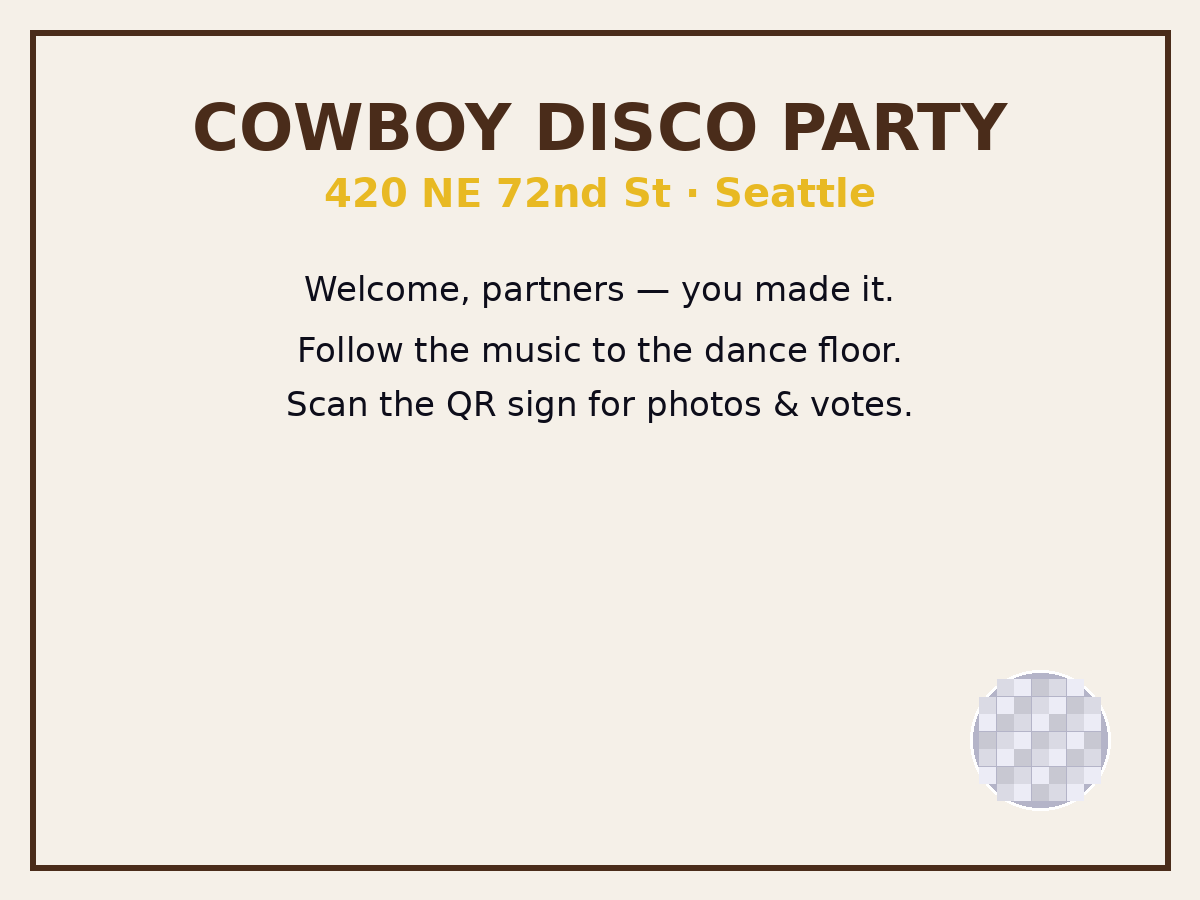
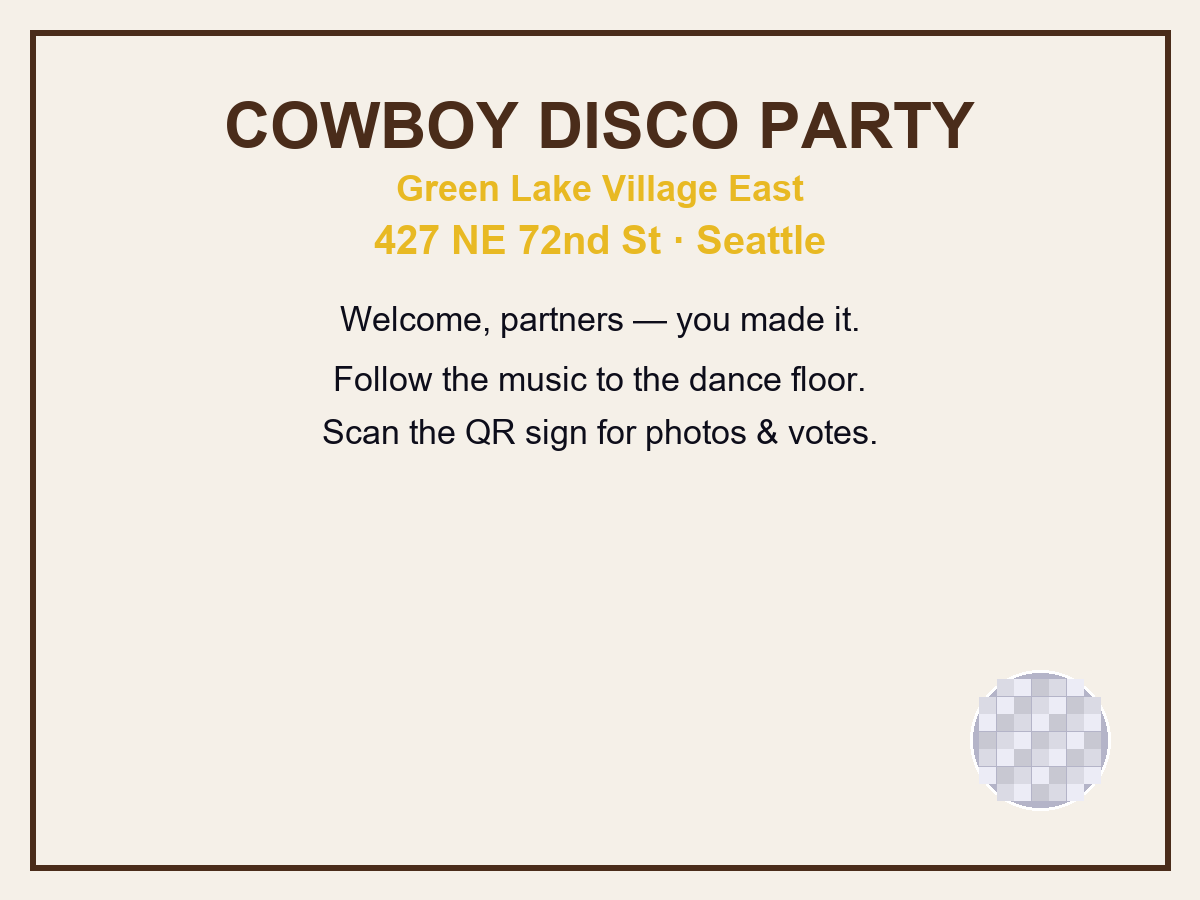
Move the party to Green Lake Village East and drop the hat brand mark.

Changed region(s): [[0.1542, 0.0933, 0.8325, 0.28], [0.2467, 0.3111, 0.7708, 0.4978]]

diff --git a/index.html b/index.html
@@ -38,10 +38,10 @@
     "image": ["https://cowboy-disco-party.vercel.app/assets/og-card.jpg"],
     "location": {
       "@type": "Place",
-      "name": "Cowboy Disco Saloon",
+      "name": "Cowboy Disco Saloon — Green Lake Village East",
       "address": {
         "@type": "PostalAddress",
-        "streetAddress": "420 NE 72nd St",
+        "streetAddress": "427 NE 72nd St",
         "addressLocality": "Seattle",
         "addressRegion": "WA",
         "postalCode": "98115",
@@ -76,7 +76,6 @@
     <div class="brand-stripe" aria-hidden="true"></div>
     <nav class="nav" aria-label="Main">
       <a class="nav__brand brand-lockup" href="#top">
-        <img class="brand-lockup__mark" src="/assets/brand-mark.svg" width="40" height="40" alt="">
         <span class="brand-lockup__text">
           <span class="brand-lockup__name">Cowboy Disco Party</span>
           <span class="brand-lockup__sub">Sep 19, 2026</span>
@@ -171,7 +170,7 @@
             <a class="btn btn--ghost" href="/assets/cowboy-disco-party.ics" download="cowboy-disco-party.ics">Add to Calendar</a>
             <a
               class="btn btn--ghost"
-              href="https://www.google.com/maps/dir/?api=1&destination=420+NE+72nd+St,+Seattle,+WA+98115"
+              href="https://www.google.com/maps/dir/?api=1&destination=427+NE+72nd+St,+Seattle,+WA+98115"
               target="_blank"
               rel="noopener noreferrer"
             >Get Directions</a>
@@ -199,11 +198,12 @@
             <p class="detail-card__num" aria-hidden="true">02</p>
             <h3>Where</h3>
             <p><strong>Cowboy Disco Saloon</strong></p>
-            <p>420 NE 72nd St, Seattle, WA 98115</p>
+            <p>Green Lake Village East</p>
+            <p>427 NE 72nd St, Seattle, WA 98115</p>
             <p>
               <a
                 class="btn btn--ghost btn--compact"
-                href="https://www.google.com/maps/dir/?api=1&destination=420+NE+72nd+St,+Seattle,+WA+98115"
+                href="https://www.google.com/maps/dir/?api=1&destination=427+NE+72nd+St,+Seattle,+WA+98115"
                 target="_blank"
                 rel="noopener noreferrer"
               >Get Directions</a>
@@ -758,13 +758,14 @@
       <div class="container">
         <header class="section__header">
           <h2>Location</h2>
-          <p>Cowboy Disco Saloon · 420 NE 72nd St, Seattle</p>
+          <p>Cowboy Disco Saloon · Green Lake Village East</p>
         </header>
         <div class="location-grid">
           <div class="location-info">
             <h3>Getting There</h3>
             <p>
-              <strong>420 NE 72nd St</strong><br>
+              <strong>Green Lake Village East</strong><br>
+              427 NE 72nd St<br>
               Seattle, WA 98115
             </p>
             <p>
@@ -773,15 +774,15 @@
             <a class="btn btn--primary location-directions is-hidden" data-partiful href="#" target="_blank" rel="noopener noreferrer">RSVP on Partiful</a>
             <a
               class="btn btn--secondary location-directions"
-              href="https://www.google.com/maps/dir/?api=1&destination=420+NE+72nd+St,+Seattle,+WA+98115"
+              href="https://www.google.com/maps/dir/?api=1&destination=427+NE+72nd+St,+Seattle,+WA+98115"
               target="_blank"
               rel="noopener noreferrer"
             >Open in Google Maps</a>
           </div>
           <div class="location-map">
             <iframe
-              title="Map to 420 NE 72nd St, Seattle"
-              src="https://maps.google.com/maps?q=420+NE+72nd+St,+Seattle,+WA+98115&output=embed"
+              title="Map to 427 NE 72nd St, Seattle"
+              src="https://maps.google.com/maps?q=427+NE+72nd+St,+Seattle,+WA+98115&output=embed"
               loading="lazy"
               referrerpolicy="no-referrer-when-downgrade"
               allowfullscreen
@@ -841,7 +842,7 @@
             <summary class="faq-item__question">Where do I go?</summary>
             <div class="faq-item__answer">
               <p>
-                Head to <strong>420 NE 72nd St, Seattle</strong> — look for the <strong>Cowboy Disco</strong> signs
+                Head to <strong>Green Lake Village East, 427 NE 72nd St, Seattle</strong> — look for the <strong>Cowboy Disco</strong> signs
                 and follow the music to the dance floor.
                 <a href="#location">Map and directions</a> are on this page.
               </p>
@@ -928,7 +929,6 @@
     <div class="container site-footer__inner">
       <div class="footer-premium__brand">
         <p class="footer-premium__presents">Hondo Entertainment presents</p>
-        <img class="footer-premium__mark" src="/assets/brand-mark.svg" width="56" height="56" alt="">
         <span class="footer-premium__name">Cowboy Disco</span>
         <p class="footer-premium__tagline">Where Studio 54 meets the Wild West.</p>
       </div>

diff --git a/gallery.html b/gallery.html
@@ -32,7 +32,6 @@
     <div class="brand-stripe" aria-hidden="true"></div>
     <nav class="nav" aria-label="Main">
       <a class="nav__brand brand-lockup" href="index.html">
-        <img class="brand-lockup__mark" src="/assets/brand-mark.svg" width="40" height="40" alt="">
         <span class="brand-lockup__text">
           <span class="brand-lockup__name">Cowboy Disco Party</span>
           <span class="brand-lockup__sub">Sep 19, 2026</span>
@@ -57,14 +56,6 @@
   <main id="main">
     <section class="section section--poll-hero reveal">
       <div class="container">
-        <div class="brand-banner brand-lockup brand-lockup--card is-hidden" hidden>
-          <img class="brand-lockup__mark" src="/assets/brand-mark.svg" width="44" height="44" alt="">
-          <span class="brand-lockup__text">
-            <span class="brand-lockup__name">Cowboy Disco Party</span>
-            <span class="brand-lockup__sub">Cowboy Disco Saloon</span>
-          </span>
-        </div>
-
         <header class="section__header">
           <p class="poll-hero__eyebrow">
             <span class="star" aria-hidden="true">★</span>
@@ -151,7 +142,6 @@
   <footer class="site-footer site-footer--premium">
     <div class="container site-footer__inner">
       <div class="footer-premium__brand">
-        <img class="footer-premium__mark" src="/assets/brand-mark.svg" width="56" height="56" alt="">
         <span class="footer-premium__name">Cowboy Disco</span>
         <p class="footer-premium__tagline">Where Studio 54 meets the Wild West.</p>
       </div>

diff --git a/vote.html b/vote.html
@@ -29,7 +29,6 @@
     <div class="brand-stripe" aria-hidden="true"></div>
     <nav class="nav" aria-label="Main">
       <a class="nav__brand brand-lockup" href="index.html">
-        <img class="brand-lockup__mark" src="/assets/brand-mark.svg" width="40" height="40" alt="">
         <span class="brand-lockup__text">
           <span class="brand-lockup__name">Cowboy Disco Party</span>
           <span class="brand-lockup__sub">Sep 19, 2026</span>
@@ -54,14 +53,6 @@
   <main id="main">
     <section class="section section--poll-hero">
       <div class="container">
-        <div class="brand-banner brand-lockup brand-lockup--card is-hidden" hidden>
-          <img class="brand-lockup__mark" src="/assets/brand-mark.svg" width="44" height="44" alt="">
-          <span class="brand-lockup__text">
-            <span class="brand-lockup__name">Cowboy Disco Party</span>
-            <span class="brand-lockup__sub">Cowboy Disco Saloon</span>
-          </span>
-        </div>
-
         <header class="section__header">
           <p class="poll-hero__eyebrow">
             <span class="star" aria-hidden="true">★</span>
@@ -123,7 +114,6 @@
   <footer class="site-footer site-footer--premium">
     <div class="container site-footer__inner">
       <div class="footer-premium__brand">
-        <img class="footer-premium__mark" src="/assets/brand-mark.svg" width="56" height="56" alt="">
         <span class="footer-premium__name">Cowboy Disco</span>
         <p class="footer-premium__tagline">Where Studio 54 meets the Wild West.</p>
       </div>

diff --git a/poll.html b/poll.html
@@ -29,7 +29,6 @@
     <div class="brand-stripe" aria-hidden="true"></div>
     <nav class="nav" aria-label="Main">
       <a class="nav__brand brand-lockup" href="index.html">
-        <img class="brand-lockup__mark" src="/assets/brand-mark.svg" width="40" height="40" alt="">
         <span class="brand-lockup__text">
           <span class="brand-lockup__name">Cowboy Disco Party</span>
           <span class="brand-lockup__sub">Sep 19, 2026</span>
@@ -54,13 +53,6 @@
   <main id="main">
     <section class="section section--poll-hero">
       <div class="container">
-        <div class="brand-banner brand-lockup brand-lockup--card is-hidden" hidden>
-          <img class="brand-lockup__mark" src="/assets/brand-mark.svg" width="44" height="44" alt="">
-          <span class="brand-lockup__text">
-            <span class="brand-lockup__name">Cowboy Disco Party</span>
-            <span class="brand-lockup__sub">Cowboy Disco Saloon</span>
-          </span>
-        </div>
 
         <header class="section__header">
           <p class="poll-hero__eyebrow">
@@ -198,7 +190,6 @@
   <footer class="site-footer site-footer--premium">
     <div class="container site-footer__inner">
       <div class="footer-premium__brand">
-        <img class="footer-premium__mark" src="/assets/brand-mark.svg" width="56" height="56" alt="">
         <span class="footer-premium__name">Cowboy Disco</span>
         <p class="footer-premium__tagline">Where Studio 54 meets the Wild West.</p>
       </div>

diff --git a/ice-breaker.html b/ice-breaker.html
@@ -29,7 +29,6 @@
     <div class="brand-stripe" aria-hidden="true"></div>
     <nav class="nav" aria-label="Main">
       <a class="nav__brand brand-lockup" href="index.html">
-        <img class="brand-lockup__mark" src="/assets/brand-mark.svg" width="40" height="40" alt="">
         <span class="brand-lockup__text">
           <span class="brand-lockup__name">Cowboy Disco Party</span>
           <span class="brand-lockup__sub">Sep 19, 2026</span>
@@ -54,13 +53,6 @@
   <main id="main">
     <section class="section section--tab-hero">
       <div class="container">
-        <div class="brand-banner brand-lockup brand-lockup--card is-hidden" hidden>
-          <img class="brand-lockup__mark" src="/assets/brand-mark.svg" width="44" height="44" alt="">
-          <span class="brand-lockup__text">
-            <span class="brand-lockup__name">Cowboy Disco Party</span>
-            <span class="brand-lockup__sub">Cowboy Disco Saloon</span>
-          </span>
-        </div>
 
         <header class="section__header">
           <p class="tab-hero__eyebrow">
@@ -91,7 +83,6 @@
   <footer class="site-footer site-footer--premium">
     <div class="container site-footer__inner">
       <div class="footer-premium__brand">
-        <img class="footer-premium__mark" src="/assets/brand-mark.svg" width="56" height="56" alt="">
         <span class="footer-premium__name">Cowboy Disco</span>
         <p class="footer-premium__tagline">Where Studio 54 meets the Wild West.</p>
       </div>

diff --git a/schedule-card.html b/schedule-card.html
@@ -28,7 +28,6 @@
   <div class="phys-sheet">
     <article class="phys-schedule" aria-label="Party evening schedule">
       <div class="brand-lockup brand-lockup--card phys-brand" style="margin-bottom: 0.15in;">
-        <img class="brand-lockup__mark" src="/assets/brand-mark.svg" width="36" height="36" alt="">
         <span class="brand-lockup__text">
           <span class="brand-lockup__name" style="color: var(--phys-brown); font-size: 1.2rem;">Cowboy Disco Party</span>
           <span class="brand-lockup__sub" style="color: var(--phys-muted);">Cowboy Disco Saloon</span>
@@ -47,7 +46,7 @@
           <tr><td class="phys-schedule__time">10:00 PM</td><td>Party ends</td></tr>
         </tbody>
       </table>
-      <p class="phys-schedule__foot">420 NE 72nd St, Seattle · Cowboy Disco Saloon</p>
+      <p class="phys-schedule__foot">Green Lake Village East, 427 NE 72nd St, Seattle · Cowboy Disco Saloon</p>
     </article>
   </div>
 </body>

diff --git a/qr.html b/qr.html
@@ -16,14 +16,13 @@
   <main id="main" class="qr-print" data-qr-block>
     <div class="qr-print__sheet">
       <div class="brand-lockup brand-lockup--card" style="justify-content: center; margin-bottom: 1rem;">
-        <img class="brand-lockup__mark" src="/assets/brand-mark.svg" width="48" height="48" alt="">
         <span class="brand-lockup__text">
           <span class="brand-lockup__name">Cowboy Disco Party</span>
           <span class="brand-lockup__sub">Cowboy Disco Saloon</span>
         </span>
       </div>
       <h1 class="qr-print__title">Scan to Join the Party</h1>
-      <p class="qr-print__subtitle">Ice Breakers · Photos · FAQ · 420 NE 72nd St, Seattle</p>
+      <p class="qr-print__subtitle">Ice Breakers · Photos · FAQ · Green Lake Village East, 427 NE 72nd St, Seattle</p>
       <div class="qr-print__frame qr-block__frame">
         <img
           class="qr-block__img qr-print__img"

diff --git a/invite-card.html b/invite-card.html
@@ -30,7 +30,6 @@
     <article class="phys-invite" aria-label="Invitation front">
       <div class="phys-invite__inner">
         <div class="brand-lockup brand-lockup--card phys-brand" style="margin-bottom: 0.2in;">
-          <img class="brand-lockup__mark" src="/assets/brand-mark.svg" width="44" height="44" alt="">
           <span class="brand-lockup__text">
             <span class="brand-lockup__name" style="color: var(--phys-brown);">Cowboy Disco Party</span>
             <span class="brand-lockup__sub" style="color: var(--phys-muted);">Cowboy Disco Saloon</span>
@@ -57,7 +56,8 @@
       <div class="phys-invite__inner">
         <h2 class="phys-invite__heading">Where</h2>
         <p class="phys-invite__address">
-          <strong>420 NE 72nd St</strong><br>
+          <strong>Green Lake Village East</strong><br>
+          427 NE 72nd St<br>
           Seattle, WA 98115
         </p>
 

diff --git a/js/config.js b/js/config.js
@@ -26,7 +26,7 @@
     // The invite page appends "RSVP: <PARTIFUL_URL>" automatically when set,
     // so the Partiful link lives in exactly one place.
     SHARE_MESSAGE:
-      "You're invited to Cowboy Disco — where Studio 54 meets the Wild West. Saturday, Sep 19, 2026 at 6:00 PM · Cowboy Disco Saloon, 420 NE 72nd St, Seattle. Party details, photos & votes: https://cowboy-disco-party.vercel.app",
+      "You're invited to Cowboy Disco — where Studio 54 meets the Wild West. Saturday, Sep 19, 2026 at 6:00 PM · Cowboy Disco Saloon at Green Lake Village East, 427 NE 72nd St, Seattle. Party details, photos & votes: https://cowboy-disco-party.vercel.app",
     OG_IMAGE: "https://cowboy-disco-party.vercel.app/assets/og-card.jpg",
   };
 })(window);

diff --git a/invite.html b/invite.html
@@ -38,7 +38,7 @@
         <h2>Details to mention</h2>
         <ul class="location-tips">
           <li><strong>When:</strong> Saturday, September 19, 2026 · 6:00 PM</li>
-          <li><strong>Where:</strong> 420 NE 72nd St, Seattle — Cowboy Disco Saloon</li>
+          <li><strong>Where:</strong> Green Lake Village East, 427 NE 72nd St, Seattle — Cowboy Disco Saloon</li>
           <li><strong>Dress:</strong> Western glamour — champagne gold, white boots, rhinestones, and chrome sparkle</li>
           <li><strong>RSVP:</strong> <a id="invite-rsvp-link" href="#" target="_blank" rel="noopener noreferrer">Partiful event page</a></li>
           <li><strong>Site:</strong> Photos, ice breakers, vote, directions, menu</li>

diff --git a/lookbook.html b/lookbook.html
@@ -29,7 +29,6 @@
   <article class="phys-lookbook" aria-label="Dress code lookbook">
     <header class="phys-lookbook__head">
       <div class="brand-lockup brand-lockup--card phys-brand">
-        <img class="brand-lockup__mark" src="/assets/brand-mark.svg" width="40" height="40" alt="">
         <span class="brand-lockup__text">
           <span class="brand-lockup__name" style="color: var(--phys-brown);">Cowboy Disco Party</span>
           <span class="brand-lockup__sub" style="color: var(--phys-muted);">Saturday, September 19, 2026</span>

diff --git a/party-kit.html b/party-kit.html
@@ -14,7 +14,6 @@
 <body class="phys-page">
   <header class="phys-toolbar">
     <div class="brand-lockup brand-lockup--card" style="justify-content: center; margin-bottom: 1rem;">
-      <img class="brand-lockup__mark" src="/assets/brand-mark.svg" width="48" height="48" alt="">
       <span class="brand-lockup__text">
         <span class="brand-lockup__name" style="color: var(--phys-brown);">Cowboy Disco Party</span>
         <span class="brand-lockup__sub">Official real-life party kit</span>
